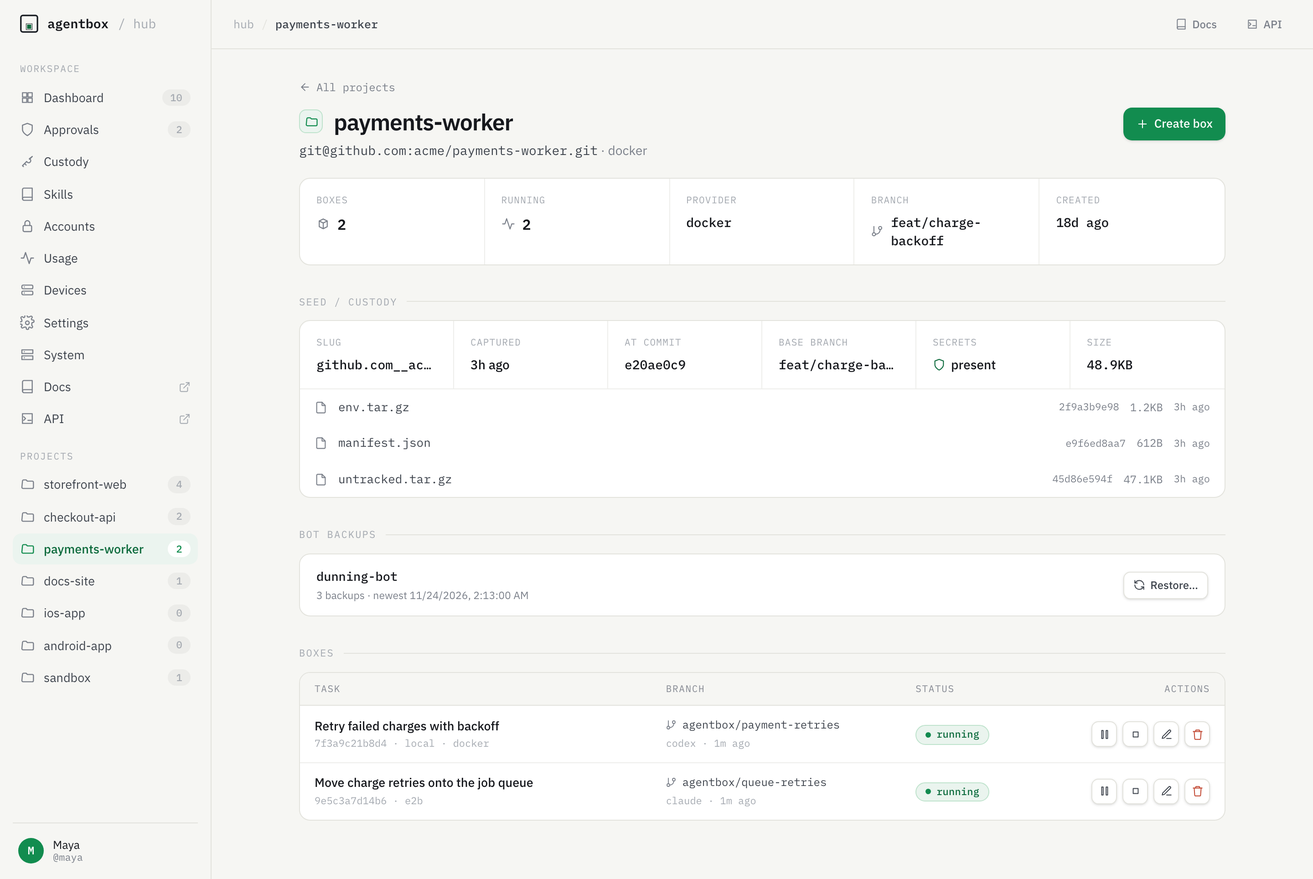
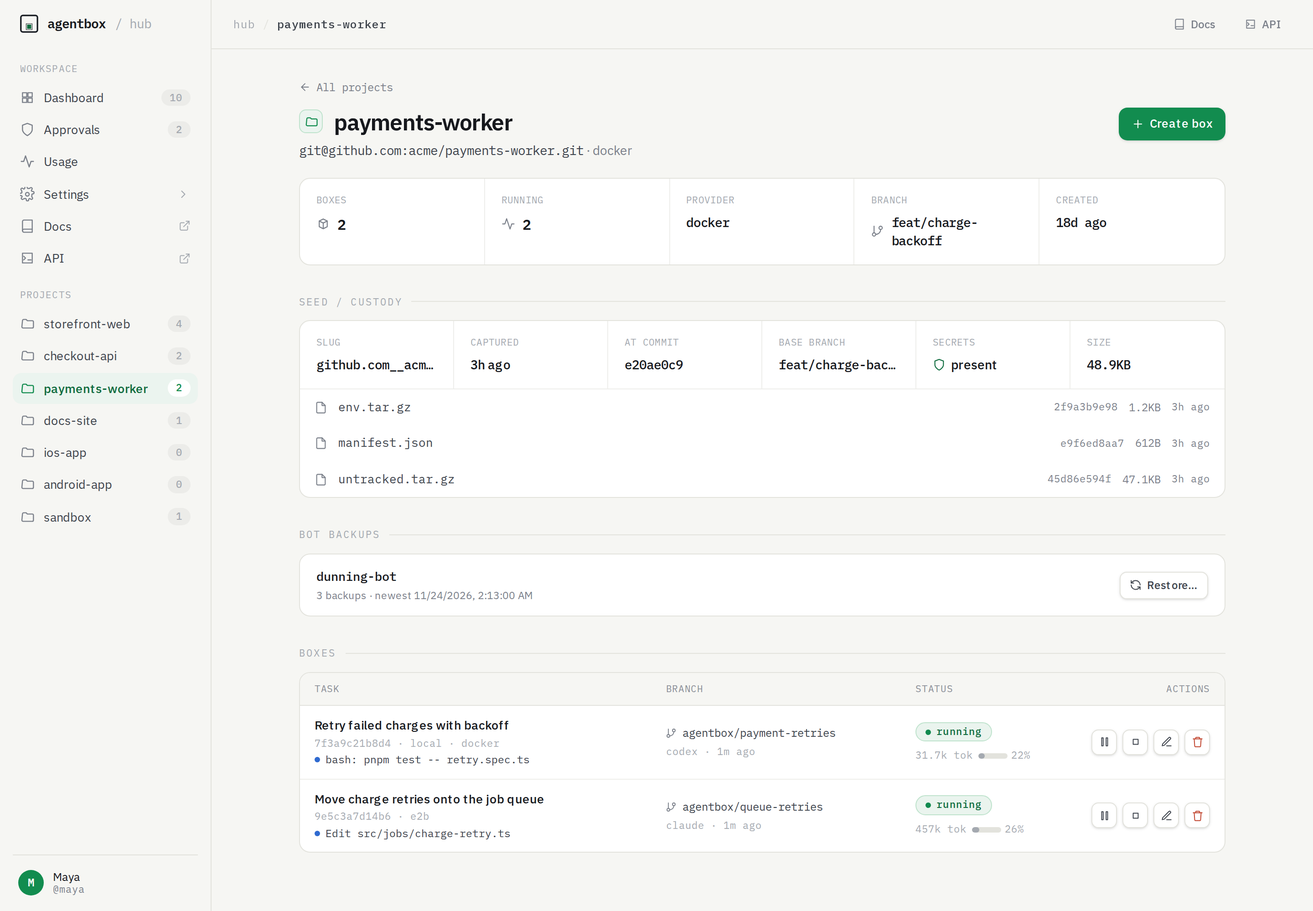
docs: hub settings Phase 1 done; catalog hub shots retaken with the Settings sidebar

diff --git a/catalog/screens/index.html b/catalog/screens/index.html
@@ -126,7 +126,7 @@ dialog::backdrop { background: var(--shade); }
 <dialog id="dlg"></dialog>
 
 <script>
-const DATA = {"screens":[{"topic":"Web hub","setup":"fixture-hub","url":"/","id":"hub/boxes","title":"Hub dashboard: every box, grouped by project","what":"The boxes list with a pending approval banner on top: running, paused, creating, failed and stopped boxes on docker, vercel, hetzner and e2b.","social":{"title":"Every coding agent in its own box","crop":[0,0,2880,1800]},"files":[{"shoot":"pnpm shoot hub/boxes.png / --full","file":"hub/boxes.png","w":2880,"h":4122,"url":"../shots/hub/boxes.png","path":"catalog/shots/hub/boxes.png"}]},{"topic":"Web hub","setup":"fixture-hub","url":"/boxes/\u003cbox id>","id":"hub/box-detail","title":"Box detail","what":"One box: status, git, services, the skills it holds, access links and its approvals.","from":"hub/boxes","via":"Click a box row","social":{"crop":[0,0,2880,1800]},"files":[{"shoot":"pnpm shoot hub/box-detail.png /boxes/7f3a9c21b8d4 --full","file":"hub/box-detail.png","w":2880,"h":4252,"url":"../shots/hub/box-detail.png","path":"catalog/shots/hub/box-detail.png"}]},{"topic":"Web hub","setup":"fixture-hub","url":"/projects/\u003cproject id>","id":"hub/project","title":"Project page","what":"A project's boxes, its seed in custody and its service bot with backups.","from":"hub/boxes","via":"Click a project in the sidebar","social":{"crop":[0,0,2880,1800]},"files":[{"shoot":"pnpm shoot hub/project-detail.png /projects/fx-payments-worker --full","file":"hub/project-detail.png","w":2880,"h":1928,"url":"../shots/hub/project-detail.png","path":"catalog/shots/hub/project-detail.png"}]},{"topic":"Web hub","setup":"fixture-hub","url":"/projects/\u003cproject id>, then Create box","id":"hub/create-box","title":"Create a box","what":"The create modal over a project page: provider, agent, account and first prompt.","from":"hub/project","via":"Create box","notes":["The modal opens over the project page; the click is the first \"Create box\" button on the page."],"files":[{"shoot":"pnpm shoot hub/create-box.png /projects/fx-payments-worker --click text=Create\\ box","file":"hub/create-box.png","w":2880,"h":1800,"url":"../shots/hub/create-box.png","path":"catalog/shots/hub/create-box.png"}]},{"topic":"Web hub","setup":"fixture-hub","url":"/approvals","id":"hub/approvals","title":"Approvals","what":"Host actions boxes asked for, waiting on a yes: a shell command on the host and a git push.","from":"hub/boxes","via":"Approvals in the sidebar, or View all on the banner","files":[{"shoot":"pnpm shoot hub/approvals.png /approvals","file":"hub/approvals.png","w":2880,"h":1800,"url":"../shots/hub/approvals.png","path":"catalog/shots/hub/approvals.png"}]},{"topic":"Web hub","setup":"fixture-hub","url":"/usage","id":"hub/usage","title":"Usage: tokens by day, agent, account, box and model","what":"Seven days of token usage (demo numbers) by day, agent, account, box and model.","social":{"title":"Where the tokens went, per box and per account","crop":[0,0,2880,1800]},"files":[{"shoot":"pnpm shoot hub/usage.png /usage --full","file":"hub/usage.png","w":2880,"h":6642,"url":"../shots/hub/usage.png","path":"catalog/shots/hub/usage.png"}]},{"topic":"Web hub","setup":"fixture-hub","url":"/settings/files","id":"hub/files","title":"Files: what the hub holds for boxes","what":"Agent logins, project seeds, bake records, the skills library and a box SSH key, metadata only.","files":[{"shoot":"pnpm shoot hub/files.png /settings/files --full","file":"hub/files.png","w":2880,"h":6160,"url":"../shots/hub/files.png","path":"catalog/shots/hub/files.png"}]},{"topic":"Web hub","setup":"fixture-hub","url":"/settings/devices","id":"hub/devices","title":"Devices: the PCs enrolled on this hub","what":"Three enrolled machines, a revoked one, and an enrollment code waiting for approval.","files":[{"shoot":"pnpm shoot hub/devices.png /settings/devices --full","file":"hub/devices.png","w":2880,"h":1892,"url":"../shots/hub/devices.png","path":"catalog/shots/hub/devices.png"}]},{"topic":"Web hub","setup":"fixture-hub","url":"/settings","id":"hub/settings","title":"Settings: General (providers)","what":"Docker, Hetzner and Vercel ready; E2B, Daytona and DigitalOcean not set up.","files":[{"shoot":"pnpm shoot hub/settings.png /settings --full","file":"hub/settings.png","w":2880,"h":1918,"url":"../shots/hub/settings.png","path":"catalog/shots/hub/settings.png"}]},{"topic":"Web hub","setup":"fixture-hub","url":"/settings/system","id":"hub/system","title":"System: hub version, bakes and the box image","what":"The hub's own state: version, deploy record, which provider bases are baked, the docker image.","files":[{"shoot":"pnpm shoot hub/system.png /settings/system --full","file":"hub/system.png","w":2880,"h":3258,"url":"../shots/hub/system.png","path":"catalog/shots/hub/system.png"}]},{"topic":"Web hub: skills and accounts","setup":"fixture-hub","url":"/settings/skills","id":"hub/skills","title":"Skills library","what":"The hub-owned skills library: git, marketplace, linked-folder and uploaded skills, two updates waiting for approval.","social":{"title":"One skills library for every box"},"files":[{"shoot":"pnpm shoot hub/skills.png /settings/skills","file":"hub/skills.png","w":2880,"h":1800,"url":"../shots/hub/skills.png","path":"catalog/shots/hub/skills.png"}]},{"topic":"Web hub: skills and accounts","setup":"fixture-hub","url":"/settings/skills","id":"hub/skills-update","title":"Review a skill update","what":"The update dialog of a library skill: the file diff between the current and the pending version, and the secret scan.","from":"hub/skills","via":"Review update on a skill with an update waiting","notes":["Taken 1500px tall: at 900 the dialog squeezes each file panel."],"files":[{"shoot":"pnpm shoot hub/skills-update.png /settings/skills --size 1440x1500 --click text=Review\\ update","file":"hub/skills-update.png","w":2880,"h":3000,"url":"../shots/hub/skills-update.png","path":"catalog/shots/hub/skills-update.png"}]},{"topic":"Web hub: skills and accounts","setup":"fixture-hub","url":"/settings/subscriptions","id":"hub/subscriptions","title":"Subscriptions: LLM accounts","what":"Several logins, setup tokens and API keys per agent, with the boxes that use each one.","social":{"title":"Several Claude and Codex accounts, one per box"},"files":[{"shoot":"pnpm shoot hub/subscriptions.png /settings/subscriptions","file":"hub/subscriptions.png","w":2880,"h":1800,"url":"../shots/hub/subscriptions.png","path":"catalog/shots/hub/subscriptions.png"}]},{"topic":"macOS tray","setup":"fixture-tray","id":"tray/menu","title":"Tray menu","what":"Boxes grouped under their manager session and project, an approval with Approve/Deny, and the footer.","social":{"kind":"cutout","title":"Every box, one click from the menu bar"},"files":[{"shoot":"pnpm shoot:tray tray/menu.png --restart","file":"tray/menu.png","w":1322,"h":1884,"url":"../shots/tray/menu.png","path":"catalog/shots/tray/menu.png"}]},{"topic":"macOS tray","setup":"fixture-tray","id":"tray/skill-updates","title":"Tray: Skill updates submenu","what":"\"Skill updates (2)\": one row per waiting update (name → version), then Review in hub….","from":"tray/menu","via":"Skill updates (2)","social":{"kind":"cutout"},"files":[{"shoot":"pnpm shoot:tray tray/skill-updates.png --press agentbox.footer.skillUpdates","file":"tray/skill-updates.png","w":1286,"h":1884,"url":"../shots/tray/skill-updates.png","path":"catalog/shots/tray/skill-updates.png"}]},{"topic":"macOS tray","setup":"fixture-tray","id":"tray/skill-approve","title":"Tray: approve a skill update","what":"The confirmation before a version becomes current: running boxes sync it now, stopped ones on their next start.","from":"tray/skill-updates","via":"A row under Skill updates (skill → version)","notes":["--alert quits the fixture app after the shot: the alert is modal, and a relaunch resets the demo."],"social":{"kind":"cutout"},"files":[{"shoot":"pnpm shoot:tray tray/skill-approve-confirm.png --press agentbox.footer.skillUpdates --press agentbox.skillUpdates.review-pr --alert","file":"tray/skill-approve-confirm.png","w":520,"h":640,"url":"../shots/tray/skill-approve-confirm.png","path":"catalog/shots/tray/skill-approve-confirm.png"}]},{"topic":"macOS tray","setup":"fixture-tray","id":"tray/box-skills-behind","title":"Tray: a box that is behind on skills","what":"A box's submenu: a \"Skills behind: …\" line naming the skills it lacks, and Sync Skills.","from":"tray/menu","via":"Hover a box row","social":{"kind":"cutout"},"files":[{"shoot":"pnpm shoot:tray tray/box-skills-behind.png --press agentbox.box.queue-retries","file":"tray/box-skills-behind.png","w":1452,"h":1884,"url":"../shots/tray/box-skills-behind.png","path":"catalog/shots/tray/box-skills-behind.png"}]},{"topic":"macOS tray","setup":"fixture-tray","id":"tray/accounts","title":"Tray: Accounts submenu","what":"The read-only list of LLM accounts per agent, with kind, identity and how many boxes use each.","from":"tray/menu","via":"Accounts","social":{"kind":"cutout"},"files":[{"shoot":"pnpm shoot:tray tray/accounts.png --press agentbox.footer.accounts","file":"tray/accounts.png","w":1352,"h":1884,"url":"../shots/tray/accounts.png","path":"catalog/shots/tray/accounts.png"}]},{"topic":"macOS tray","setup":"fixture-tray","id":"tray/manager","title":"Manager window","what":"Tasks grouped by box with progress, the latest activity (a PR ready to merge with Approve), and the manager session pane.","from":"tray/menu","via":"Open Manager (⌘M)","social":{"kind":"cutout","title":"Plan the work, watch every box, approve the merge"},"files":[{"shoot":"pnpm shoot:tray tray/manager.png --manager fx-commerce","file":"tray/manager.png","w":2360,"h":1800,"url":"../shots/tray/manager.png","path":"catalog/shots/tray/manager.png"}]},{"topic":"CLI","setup":"fixture-cli","url":"agentbox install","id":"cli/install","title":"Setup wizard","what":"`agentbox install` (and the first command on a new machine): the system check, then the provider choice.","notes":["The \"system warn: optional sshfs, macfuse\" line is this Mac's real check result."],"social":{"kind":"cutout","title":"Set up in one command"},"files":[{"state":"pick a provider","shoot":"pnpm shoot:cli cli/install-provider.png --first-run --cols 122 --rows 22 --wait-for Which -- install","file":"cli/install-provider.png","w":2222,"h":934,"url":"../shots/cli/install-provider.png","path":"catalog/shots/cli/install-provider.png"},{"state":"Hetzner API token","shoot":"pnpm shoot:cli cli/install-hetzner.png --first-run --cols 110 --rows 34 --wait-for Which --send '\u003cDown>\u003cDown>' --send '\u003cEnter>' --settle 2500 -- install","file":"cli/install-hetzner.png","w":2028,"h":1246,"url":"../shots/cli/install-hetzner.png","path":"catalog/shots/cli/install-hetzner.png"}]},{"topic":"CLI","setup":"fixture-cli","url":"agentbox ls --global","id":"cli/ls","title":"agentbox ls","what":"Every box on the hub: state, agent activity (and its account), provider, URL and project.","social":{"kind":"cutout"},"files":[{"shoot":"pnpm shoot:cli cli/ls.png --cols 122 --rows 22 -- ls --global","file":"cli/ls.png","w":2222,"h":816,"url":"../shots/cli/ls.png","path":"catalog/shots/cli/ls.png"}]},{"topic":"CLI","setup":"fixture-cli","url":"agentbox --help","id":"cli/help","title":"agentbox --help","what":"The command list.","social":{"kind":"cutout"},"files":[{"shoot":"pnpm shoot:cli cli/help.png --cols 100 --rows 60 -- --help","file":"cli/help.png","w":1864,"h":2068,"url":"../shots/cli/help.png","path":"catalog/shots/cli/help.png"}]},{"id":"docs/dashboard","topic":"From the docs","title":"agentbox dashboard (docs capture)","what":"The terminal dashboard: the box list on the left, the selected box's live agent session on the right.","setup":"docs-site","files":[{"file":"docs:dashboard.png","w":2696,"h":1130,"url":"../../apps/web/public/screenshots/dashboard.png","path":"apps/web/public/screenshots/dashboard.png"}],"notes":["Needs live tmux sessions in real boxes, which the fixtures cannot provide, so it comes from the docs. Real boxes from the docs test environment (2026-06-02)."],"social":{"kind":"page"}},{"id":"docs/claude-tui","topic":"From the docs","title":"Claude Code in a box (docs capture)","what":"An attached Claude Code session running inside a docker box.","setup":"docs-site","files":[{"file":"docs:claude-tui.png","w":2336,"h":989,"url":"../../apps/web/public/screenshots/claude-tui.png","path":"apps/web/public/screenshots/claude-tui.png"}]},{"id":"docs/push-approval","topic":"From the docs","title":"Push approval in the terminal (docs capture)","what":"The approval band a box raises when its agent runs gh pr create.","setup":"docs-site","files":[{"file":"docs:push-approval.png","w":2416,"h":1120,"url":"../../apps/web/public/screenshots/push-approval.png","path":"apps/web/public/screenshots/push-approval.png"}]},{"id":"docs/novnc-desktop","topic":"From the docs","title":"A box's desktop over noVNC (docs capture)","what":"The in-box browser and desktop.","setup":"docs-site","files":[{"file":"docs:novnc-desktop.png","w":1140,"h":978,"url":"../../apps/web/public/screenshots/novnc-desktop.png","path":"apps/web/public/screenshots/novnc-desktop.png"}],"check":"apps/web/images.md marks this one stale: it predates the window manager and the dock."},{"id":"docs/herdr","topic":"From the docs","title":"Herdr: a box blocked on an approval (docs capture)","what":"Claude in a box inside Herdr, waiting on a gh pr create approval, with the agents sidebar.","setup":"docs-site","files":[{"file":"docs:herdr-permission-prompt.png","w":2784,"h":1616,"url":"../../apps/web/public/screenshots/herdr-permission-prompt.png","path":"apps/web/public/screenshots/herdr-permission-prompt.png"}]},{"id":"docs/cmux","topic":"From the docs","title":"cmux: box status in the sidebar (docs capture)","what":"Box state as colour and description in the cmux sidebar.","setup":"docs-site","files":[{"file":"docs:cmux-sidebar-state.png","w":1100,"h":640,"url":"../../apps/web/public/screenshots/cmux-sidebar-state.png","path":"apps/web/public/screenshots/cmux-sidebar-state.png"}]}],"setups":{"fixture-hub":{"title":"Fixture hub: the real hub UI on the Acme demo data","what":"apps/hub's own production build, served by scripts/fixture-hub.mjs on 127.0.0.1:3126 with a fixture backend (fixtures/acme.mjs) and every /api/v1 route answered from fixtures/api.mjs. No relay, no boxes, no sign-in; HOME is .cache/home.","commands":["pnpm --filter @agentbox/hub build   # only when apps/hub changed since the last build (from the repo root)","pnpm fixture-hub                    # http://127.0.0.1:3126, leave it running","pnpm shoot \u003cfile> \u003cpath>            # in another terminal"],"notes":["A route a page asks for that has no fixture prints \"unhandled GET ...\" in the fixture hub's log, and shoot warns \"answered 404\". Add it to fixtures/api.mjs.","The hub reads the clock in the browser: shoot pins it to NOW in fixtures/acme.mjs, so \"3m ago\" is the same on every run."]},"fixture-tray":{"title":"Tray app in fixture mode (AgentBoxE2E.app --fixtures)","what":"A second tray instance from ../agentbox-tray (own bundle id and process name, so the owner's real tray is never touched), launched with --fixtures: the tray's in-memory FixtureBoxSource, the same Acme story as the hub fixtures, no hub, no shell-outs. Driven through Accessibility by e2e/tray-driver.","commands":["cd ../../agentbox-tray && make e2e-app            # builds AgentBoxE2E.app (after a tray change)","cd ../e2e/tray-driver && swift build -c release   # the AX driver, once","pnpm shoot:tray \u003cfile> [--press \u003cax id>]...       # launches the app itself when it is not running"],"notes":["Opening a menu takes the screen for a moment: shoot:tray waits until the Mac has had 3s without input. Don't use the Mac while it runs.","Captures are `screencapture -l \u003cwindow id>` of the app's own windows, never a screen region, so nothing else on the screen gets in.","The terminal that runs it needs Screen Recording and Accessibility permission (System Settings → Privacy & Security).","The tray's demo data lives in the tray repo (Sources/AgentBox/Source/FixtureBoxSource.swift), not here. Keep fixtures/acme.mjs in step with it."]},"fixture-cli":{"title":"CLI in a PTY, HOME pointed at the fixture hub","what":"apps/cli/dist/index.js run in the repo's PTY harness (`pnpm drive`) with HOME=.cache/cli-home, whose config sets relay.port to 3126: every hub-backed command reads the fixture hub. The rendered screen, colours included, is drawn into a terminal window by scripts/shoot-cli.mjs.","commands":["pnpm --filter agentbox build   # from the repo root, when the CLI changed","pnpm fixture-hub               # leave it running","pnpm shoot:cli \u003cfile> [options] -- \u003cagentbox args>"],"notes":["The prompt line (\"~/Projects/commerce ❯ agentbox ...\") is drawn, not typed.","Checks that read the real machine (the system compatibility step of the wizard) show this Mac's result."]},"docs-site":{"title":"Taken for the public docs (apps/web)","what":"Real screenshots of real boxes, taken for agent-box.sh/docs and kept in apps/web/public/screenshots. How each was taken, and which are stale, is in apps/web/images.md.","commands":["# see apps/web/images.md, section 1 (the test environment) and its status table"]}},"topics":["Web hub","Web hub: skills and accounts","macOS tray","CLI","From the docs"]};
+const DATA = {"screens":[{"topic":"Web hub","setup":"fixture-hub","url":"/","id":"hub/boxes","title":"Hub dashboard: every box, grouped by project","what":"The boxes list with a pending approval banner on top: running, paused, creating, failed and stopped boxes on docker, vercel, hetzner and e2b.","social":{"title":"Every coding agent in its own box","crop":[0,0,2880,1800]},"files":[{"shoot":"pnpm shoot hub/boxes.png / --full","file":"hub/boxes.png","w":2880,"h":4122,"url":"../shots/hub/boxes.png","path":"catalog/shots/hub/boxes.png"}]},{"topic":"Web hub","setup":"fixture-hub","url":"/boxes/\u003cbox id>","id":"hub/box-detail","title":"Box detail","what":"One box: status, git, services, the skills it holds, access links and its approvals.","from":"hub/boxes","via":"Click a box row","social":{"crop":[0,0,2880,1800]},"files":[{"shoot":"pnpm shoot hub/box-detail.png /boxes/7f3a9c21b8d4 --full","file":"hub/box-detail.png","w":2880,"h":4252,"url":"../shots/hub/box-detail.png","path":"catalog/shots/hub/box-detail.png"}]},{"topic":"Web hub","setup":"fixture-hub","url":"/projects/\u003cproject id>","id":"hub/project","title":"Project page","what":"A project's boxes, its seed in custody and its service bot with backups.","from":"hub/boxes","via":"Click a project in the sidebar","social":{"crop":[0,0,2880,1800]},"files":[{"shoot":"pnpm shoot hub/project-detail.png /projects/fx-payments-worker --full","file":"hub/project-detail.png","w":2880,"h":1998,"url":"../shots/hub/project-detail.png","path":"catalog/shots/hub/project-detail.png"}]},{"topic":"Web hub","setup":"fixture-hub","url":"/projects/\u003cproject id>, then Create box","id":"hub/create-box","title":"Create a box","what":"The create modal over a project page: provider, agent, account and first prompt.","from":"hub/project","via":"Create box","notes":["The modal opens over the project page; the click is the first \"Create box\" button on the page."],"files":[{"shoot":"pnpm shoot hub/create-box.png /projects/fx-payments-worker --click text=Create\\ box","file":"hub/create-box.png","w":2880,"h":1800,"url":"../shots/hub/create-box.png","path":"catalog/shots/hub/create-box.png"}]},{"topic":"Web hub","setup":"fixture-hub","url":"/approvals","id":"hub/approvals","title":"Approvals","what":"Host actions boxes asked for, waiting on a yes: a shell command on the host and a git push.","from":"hub/boxes","via":"Approvals in the sidebar, or View all on the banner","files":[{"shoot":"pnpm shoot hub/approvals.png /approvals","file":"hub/approvals.png","w":2880,"h":1800,"url":"../shots/hub/approvals.png","path":"catalog/shots/hub/approvals.png"}]},{"topic":"Web hub","setup":"fixture-hub","url":"/usage","id":"hub/usage","title":"Usage: tokens by day, agent, account, box and model","what":"Seven days of token usage (demo numbers) by day, agent, account, box and model.","social":{"title":"Where the tokens went, per box and per account","crop":[0,0,2880,1800]},"files":[{"shoot":"pnpm shoot hub/usage.png /usage --full","file":"hub/usage.png","w":2880,"h":6642,"url":"../shots/hub/usage.png","path":"catalog/shots/hub/usage.png"}]},{"topic":"Web hub","setup":"fixture-hub","url":"/settings/files","id":"hub/files","title":"Files: what the hub holds for boxes","what":"Agent logins, project seeds, bake records, the skills library and a box SSH key, metadata only.","files":[{"shoot":"pnpm shoot hub/files.png /settings/files --full","file":"hub/files.png","w":2880,"h":6160,"url":"../shots/hub/files.png","path":"catalog/shots/hub/files.png"}]},{"topic":"Web hub","setup":"fixture-hub","url":"/settings/devices","id":"hub/devices","title":"Devices: the PCs enrolled on this hub","what":"Three enrolled machines, a revoked one, and an enrollment code waiting for approval.","files":[{"shoot":"pnpm shoot hub/devices.png /settings/devices --full","file":"hub/devices.png","w":2880,"h":1892,"url":"../shots/hub/devices.png","path":"catalog/shots/hub/devices.png"}]},{"topic":"Web hub","setup":"fixture-hub","url":"/settings","id":"hub/settings","title":"Settings: General (providers)","what":"Docker, Hetzner and Vercel ready; E2B, Daytona and DigitalOcean not set up.","files":[{"shoot":"pnpm shoot hub/settings.png /settings --full","file":"hub/settings.png","w":2880,"h":1918,"url":"../shots/hub/settings.png","path":"catalog/shots/hub/settings.png"}]},{"topic":"Web hub","setup":"fixture-hub","url":"/settings/system","id":"hub/system","title":"System: hub version, bakes and the box image","what":"The hub's own state: version, deploy record, which provider bases are baked, the docker image.","files":[{"shoot":"pnpm shoot hub/system.png /settings/system --full","file":"hub/system.png","w":2880,"h":3258,"url":"../shots/hub/system.png","path":"catalog/shots/hub/system.png"}]},{"topic":"Web hub: skills and accounts","setup":"fixture-hub","url":"/settings/skills","id":"hub/skills","title":"Skills library","what":"The hub-owned skills library: git, marketplace, linked-folder and uploaded skills, two updates waiting for approval.","social":{"title":"One skills library for every box"},"files":[{"shoot":"pnpm shoot hub/skills.png /settings/skills","file":"hub/skills.png","w":2880,"h":1800,"url":"../shots/hub/skills.png","path":"catalog/shots/hub/skills.png"}]},{"topic":"Web hub: skills and accounts","setup":"fixture-hub","url":"/settings/skills","id":"hub/skills-update","title":"Review a skill update","what":"The update dialog of a library skill: the file diff between the current and the pending version, and the secret scan.","from":"hub/skills","via":"Review update on a skill with an update waiting","notes":["Taken 1500px tall: at 900 the dialog squeezes each file panel."],"files":[{"shoot":"pnpm shoot hub/skills-update.png /settings/skills --size 1440x1500 --click text=Review\\ update","file":"hub/skills-update.png","w":2880,"h":3000,"url":"../shots/hub/skills-update.png","path":"catalog/shots/hub/skills-update.png"}]},{"topic":"Web hub: skills and accounts","setup":"fixture-hub","url":"/settings/subscriptions","id":"hub/subscriptions","title":"Subscriptions: LLM accounts","what":"Several logins, setup tokens and API keys per agent, with the boxes that use each one.","social":{"title":"Several Claude and Codex accounts, one per box"},"files":[{"shoot":"pnpm shoot hub/subscriptions.png /settings/subscriptions","file":"hub/subscriptions.png","w":2880,"h":1800,"url":"../shots/hub/subscriptions.png","path":"catalog/shots/hub/subscriptions.png"}]},{"topic":"macOS tray","setup":"fixture-tray","id":"tray/menu","title":"Tray menu","what":"Boxes grouped under their manager session and project, an approval with Approve/Deny, and the footer.","social":{"kind":"cutout","title":"Every box, one click from the menu bar"},"files":[{"shoot":"pnpm shoot:tray tray/menu.png --restart","file":"tray/menu.png","w":1322,"h":1884,"url":"../shots/tray/menu.png","path":"catalog/shots/tray/menu.png"}]},{"topic":"macOS tray","setup":"fixture-tray","id":"tray/skill-updates","title":"Tray: Skill updates submenu","what":"\"Skill updates (2)\": one row per waiting update (name → version), then Review in hub….","from":"tray/menu","via":"Skill updates (2)","social":{"kind":"cutout"},"files":[{"shoot":"pnpm shoot:tray tray/skill-updates.png --press agentbox.footer.skillUpdates","file":"tray/skill-updates.png","w":1286,"h":1884,"url":"../shots/tray/skill-updates.png","path":"catalog/shots/tray/skill-updates.png"}]},{"topic":"macOS tray","setup":"fixture-tray","id":"tray/skill-approve","title":"Tray: approve a skill update","what":"The confirmation before a version becomes current: running boxes sync it now, stopped ones on their next start.","from":"tray/skill-updates","via":"A row under Skill updates (skill → version)","notes":["--alert quits the fixture app after the shot: the alert is modal, and a relaunch resets the demo."],"social":{"kind":"cutout"},"files":[{"shoot":"pnpm shoot:tray tray/skill-approve-confirm.png --press agentbox.footer.skillUpdates --press agentbox.skillUpdates.review-pr --alert","file":"tray/skill-approve-confirm.png","w":520,"h":640,"url":"../shots/tray/skill-approve-confirm.png","path":"catalog/shots/tray/skill-approve-confirm.png"}]},{"topic":"macOS tray","setup":"fixture-tray","id":"tray/box-skills-behind","title":"Tray: a box that is behind on skills","what":"A box's submenu: a \"Skills behind: …\" line naming the skills it lacks, and Sync Skills.","from":"tray/menu","via":"Hover a box row","social":{"kind":"cutout"},"files":[{"shoot":"pnpm shoot:tray tray/box-skills-behind.png --press agentbox.box.queue-retries","file":"tray/box-skills-behind.png","w":1452,"h":1884,"url":"../shots/tray/box-skills-behind.png","path":"catalog/shots/tray/box-skills-behind.png"}]},{"topic":"macOS tray","setup":"fixture-tray","id":"tray/accounts","title":"Tray: Accounts submenu","what":"The read-only list of LLM accounts per agent, with kind, identity and how many boxes use each.","from":"tray/menu","via":"Accounts","social":{"kind":"cutout"},"files":[{"shoot":"pnpm shoot:tray tray/accounts.png --press agentbox.footer.accounts","file":"tray/accounts.png","w":1352,"h":1884,"url":"../shots/tray/accounts.png","path":"catalog/shots/tray/accounts.png"}]},{"topic":"macOS tray","setup":"fixture-tray","id":"tray/manager","title":"Manager window","what":"Tasks grouped by box with progress, the latest activity (a PR ready to merge with Approve), and the manager session pane.","from":"tray/menu","via":"Open Manager (⌘M)","social":{"kind":"cutout","title":"Plan the work, watch every box, approve the merge"},"files":[{"shoot":"pnpm shoot:tray tray/manager.png --manager fx-commerce","file":"tray/manager.png","w":2360,"h":1800,"url":"../shots/tray/manager.png","path":"catalog/shots/tray/manager.png"}]},{"topic":"CLI","setup":"fixture-cli","url":"agentbox install","id":"cli/install","title":"Setup wizard","what":"`agentbox install` (and the first command on a new machine): the system check, then the provider choice.","notes":["The \"system warn: optional sshfs, macfuse\" line is this Mac's real check result."],"social":{"kind":"cutout","title":"Set up in one command"},"files":[{"state":"pick a provider","shoot":"pnpm shoot:cli cli/install-provider.png --first-run --cols 122 --rows 22 --wait-for Which -- install","file":"cli/install-provider.png","w":2222,"h":934,"url":"../shots/cli/install-provider.png","path":"catalog/shots/cli/install-provider.png"},{"state":"Hetzner API token","shoot":"pnpm shoot:cli cli/install-hetzner.png --first-run --cols 110 --rows 34 --wait-for Which --send '\u003cDown>\u003cDown>' --send '\u003cEnter>' --settle 2500 -- install","file":"cli/install-hetzner.png","w":2028,"h":1246,"url":"../shots/cli/install-hetzner.png","path":"catalog/shots/cli/install-hetzner.png"}]},{"topic":"CLI","setup":"fixture-cli","url":"agentbox ls --global","id":"cli/ls","title":"agentbox ls","what":"Every box on the hub: state, agent activity (and its account), provider, URL and project.","social":{"kind":"cutout"},"files":[{"shoot":"pnpm shoot:cli cli/ls.png --cols 122 --rows 22 -- ls --global","file":"cli/ls.png","w":2222,"h":816,"url":"../shots/cli/ls.png","path":"catalog/shots/cli/ls.png"}]},{"topic":"CLI","setup":"fixture-cli","url":"agentbox --help","id":"cli/help","title":"agentbox --help","what":"The command list.","social":{"kind":"cutout"},"files":[{"shoot":"pnpm shoot:cli cli/help.png --cols 100 --rows 60 -- --help","file":"cli/help.png","w":1864,"h":2068,"url":"../shots/cli/help.png","path":"catalog/shots/cli/help.png"}]},{"id":"docs/dashboard","topic":"From the docs","title":"agentbox dashboard (docs capture)","what":"The terminal dashboard: the box list on the left, the selected box's live agent session on the right.","setup":"docs-site","files":[{"file":"docs:dashboard.png","w":2696,"h":1130,"url":"../../apps/web/public/screenshots/dashboard.png","path":"apps/web/public/screenshots/dashboard.png"}],"notes":["Needs live tmux sessions in real boxes, which the fixtures cannot provide, so it comes from the docs. Real boxes from the docs test environment (2026-06-02)."],"social":{"kind":"page"}},{"id":"docs/claude-tui","topic":"From the docs","title":"Claude Code in a box (docs capture)","what":"An attached Claude Code session running inside a docker box.","setup":"docs-site","files":[{"file":"docs:claude-tui.png","w":2336,"h":989,"url":"../../apps/web/public/screenshots/claude-tui.png","path":"apps/web/public/screenshots/claude-tui.png"}]},{"id":"docs/push-approval","topic":"From the docs","title":"Push approval in the terminal (docs capture)","what":"The approval band a box raises when its agent runs gh pr create.","setup":"docs-site","files":[{"file":"docs:push-approval.png","w":2416,"h":1120,"url":"../../apps/web/public/screenshots/push-approval.png","path":"apps/web/public/screenshots/push-approval.png"}]},{"id":"docs/novnc-desktop","topic":"From the docs","title":"A box's desktop over noVNC (docs capture)","what":"The in-box browser and desktop.","setup":"docs-site","files":[{"file":"docs:novnc-desktop.png","w":1140,"h":978,"url":"../../apps/web/public/screenshots/novnc-desktop.png","path":"apps/web/public/screenshots/novnc-desktop.png"}],"check":"apps/web/images.md marks this one stale: it predates the window manager and the dock."},{"id":"docs/herdr","topic":"From the docs","title":"Herdr: a box blocked on an approval (docs capture)","what":"Claude in a box inside Herdr, waiting on a gh pr create approval, with the agents sidebar.","setup":"docs-site","files":[{"file":"docs:herdr-permission-prompt.png","w":2784,"h":1616,"url":"../../apps/web/public/screenshots/herdr-permission-prompt.png","path":"apps/web/public/screenshots/herdr-permission-prompt.png"}]},{"id":"docs/cmux","topic":"From the docs","title":"cmux: box status in the sidebar (docs capture)","what":"Box state as colour and description in the cmux sidebar.","setup":"docs-site","files":[{"file":"docs:cmux-sidebar-state.png","w":1100,"h":640,"url":"../../apps/web/public/screenshots/cmux-sidebar-state.png","path":"apps/web/public/screenshots/cmux-sidebar-state.png"}]}],"setups":{"fixture-hub":{"title":"Fixture hub: the real hub UI on the Acme demo data","what":"apps/hub's own production build, served by scripts/fixture-hub.mjs on 127.0.0.1:3126 with a fixture backend (fixtures/acme.mjs) and every /api/v1 route answered from fixtures/api.mjs. No relay, no boxes, no sign-in; HOME is .cache/home.","commands":["pnpm --filter @agentbox/hub build   # only when apps/hub changed since the last build (from the repo root)","pnpm fixture-hub                    # http://127.0.0.1:3126, leave it running","pnpm shoot \u003cfile> \u003cpath>            # in another terminal"],"notes":["A route a page asks for that has no fixture prints \"unhandled GET ...\" in the fixture hub's log, and shoot warns \"answered 404\". Add it to fixtures/api.mjs.","The hub reads the clock in the browser: shoot pins it to NOW in fixtures/acme.mjs, so \"3m ago\" is the same on every run."]},"fixture-tray":{"title":"Tray app in fixture mode (AgentBoxE2E.app --fixtures)","what":"A second tray instance from ../agentbox-tray (own bundle id and process name, so the owner's real tray is never touched), launched with --fixtures: the tray's in-memory FixtureBoxSource, the same Acme story as the hub fixtures, no hub, no shell-outs. Driven through Accessibility by e2e/tray-driver.","commands":["cd ../../agentbox-tray && make e2e-app            # builds AgentBoxE2E.app (after a tray change)","cd ../e2e/tray-driver && swift build -c release   # the AX driver, once","pnpm shoot:tray \u003cfile> [--press \u003cax id>]...       # launches the app itself when it is not running"],"notes":["Opening a menu takes the screen for a moment: shoot:tray waits until the Mac has had 3s without input. Don't use the Mac while it runs.","Captures are `screencapture -l \u003cwindow id>` of the app's own windows, never a screen region, so nothing else on the screen gets in.","The terminal that runs it needs Screen Recording and Accessibility permission (System Settings → Privacy & Security).","The tray's demo data lives in the tray repo (Sources/AgentBox/Source/FixtureBoxSource.swift), not here. Keep fixtures/acme.mjs in step with it."]},"fixture-cli":{"title":"CLI in a PTY, HOME pointed at the fixture hub","what":"apps/cli/dist/index.js run in the repo's PTY harness (`pnpm drive`) with HOME=.cache/cli-home, whose config sets relay.port to 3126: every hub-backed command reads the fixture hub. The rendered screen, colours included, is drawn into a terminal window by scripts/shoot-cli.mjs.","commands":["pnpm --filter agentbox build   # from the repo root, when the CLI changed","pnpm fixture-hub               # leave it running","pnpm shoot:cli \u003cfile> [options] -- \u003cagentbox args>"],"notes":["The prompt line (\"~/Projects/commerce ❯ agentbox ...\") is drawn, not typed.","Checks that read the real machine (the system compatibility step of the wizard) show this Mac's result."]},"docs-site":{"title":"Taken for the public docs (apps/web)","what":"Real screenshots of real boxes, taken for agent-box.sh/docs and kept in apps/web/public/screenshots. How each was taken, and which are stale, is in apps/web/images.md.","commands":["# see apps/web/images.md, section 1 (the test environment) and its status table"]}},"topics":["Web hub","Web hub: skills and accounts","macOS tray","CLI","From the docs"]};
 const { screens, setups, topics } = DATA;
 const byId = Object.fromEntries(screens.map((s) => [s.id, s]));
 /* frame() and FORMATS, from scripts/frame.mjs: the export's own layout. */

diff --git a/docs/hub-settings-plan.md b/docs/hub-settings-plan.md
@@ -1,6 +1,6 @@
 # Hub settings: one Settings section, subscriptions with limits and switching, skills, files — plan
 
-**Status:** plan (2026-11-25, revised the same day after owner review). Nothing implemented.
+**Status:** Phase 1 done (2026-11-25, `feat/hub-settings-nav`). Phases 2-4 not started.
 
 The hub web UI grew one top-level page per feature: Approvals, Custody, Skills, Accounts, Usage,
 Devices, Settings, System. The design in `../agentbox-design` (`AgentBox Control Plane (shadcn).html`,
@@ -102,7 +102,7 @@ Usage stays top-level: it is a report, not configuration.
 Each phase is one PR into `nightly`, built in an agentbox. Phase 1 goes first because it moves every
 page; Phases 2, 3 and 4 then run **in parallel** (disjoint route folders and backend slices).
 
-### Phase 1 — navigation and moves (hub web only)
+### Phase 1 — navigation and moves (hub web only) — done
 
 - `SideItem` gains `children`: a nested, indented list under its parent. The parent is active on any
   child route; a child on its own subtree. `aria-current` and keyboard behave like the existing
@@ -117,6 +117,14 @@ page; Phases 2, 3 and 4 then run **in parallel** (disjoint route folders and bac
 - Tray: `reviewSkillsInHub` opens `/settings/skills` (one line, tray `nightly`, coordinator).
 - Public docs (`apps/web/content/docs/hub.mdx` and friends): the new paths; recapture the hub
   screenshots per `apps/web/images.md` and the catalog's hub shots (`catalog/`).
+
+**Built:** as above, with two notes. The breadcrumb root stays `hub` (`hub / settings / <sub>`),
+matching every other page. The CLI's control-box hint keeps printing `<hub>/devices`: it redirects on
+a new hub and is still served by an older one, while `hub login` takes the path from
+`verificationPath`. `/accounts`, `/custody` and `/system` have no redirect, so an older PC hub's
+"Bake details on the control box" link (`<control box>/system`) 404s against a new control box.
+`hub-dashboard.png` in the public docs still needs real boxes to recapture (marked stale in
+`apps/web/images.md`); the catalog's hub shots are retaken.
 
 **Done:** every old page is reachable under Settings from the main sidebar with no second nav;
 `/devices?code=X` lands on the approve form pre-filled; hub tests; a standalone-build click-through.

diff --git a/apps/web/images.md b/apps/web/images.md
@@ -18,7 +18,7 @@ Use the /screenshot skill to capture screenshots of terminal windows and GUI win
 | `web-app.png` | web-apps-and-tunnels | done (2026-06-02, wrapped in a browser chrome showing the web.localhost address bar) | A |
 | `novnc-desktop.png` | access-your-box, browser-and-screen | **stale** — predates the JWM window manager + bottom dock; recapture so the dock is visible (it now paints the wallpaper's own #f5f3f0, so it reads as free-floating icons, not a dark strip) (last done 2026-06-02, in-box browser shows the app; wrapped in a fake browser chrome → browser-in-browser) | A |
 | `agentbox-ls.png` | background-and-parallel | done (2026-06-02, recaptured) | B |
-| `hub-dashboard.png` | hub (hero) | **stale** — rows now show the working-on line and a token figure with context fill (live status, Phase 4); recapture with an agent mid-turn (last done 2026-07-12, headless capture of the hub at 2x zoom) | A |
+| `hub-dashboard.png` | hub (hero) | **stale** — the sidebar now nests Settings → General/Subscriptions/Skills/Files/Devices/System (hub settings Phase 1); rows now show the working-on line and a token figure with context fill (live status, Phase 4); recapture with an agent mid-turn (last done 2026-07-12, headless capture of the hub at 2x zoom) | A |
 | `dashboard.png` | access-your-box, background-and-parallel, cli | done (2026-06-02, recaptured) | C |
 | `claude-tui.png` | run-an-agent, cli | done (2026-06-02) | C |
 | `cursor.png` | access-your-box (Cursor / Dev Containers) | done (2026-06-02) | C |
